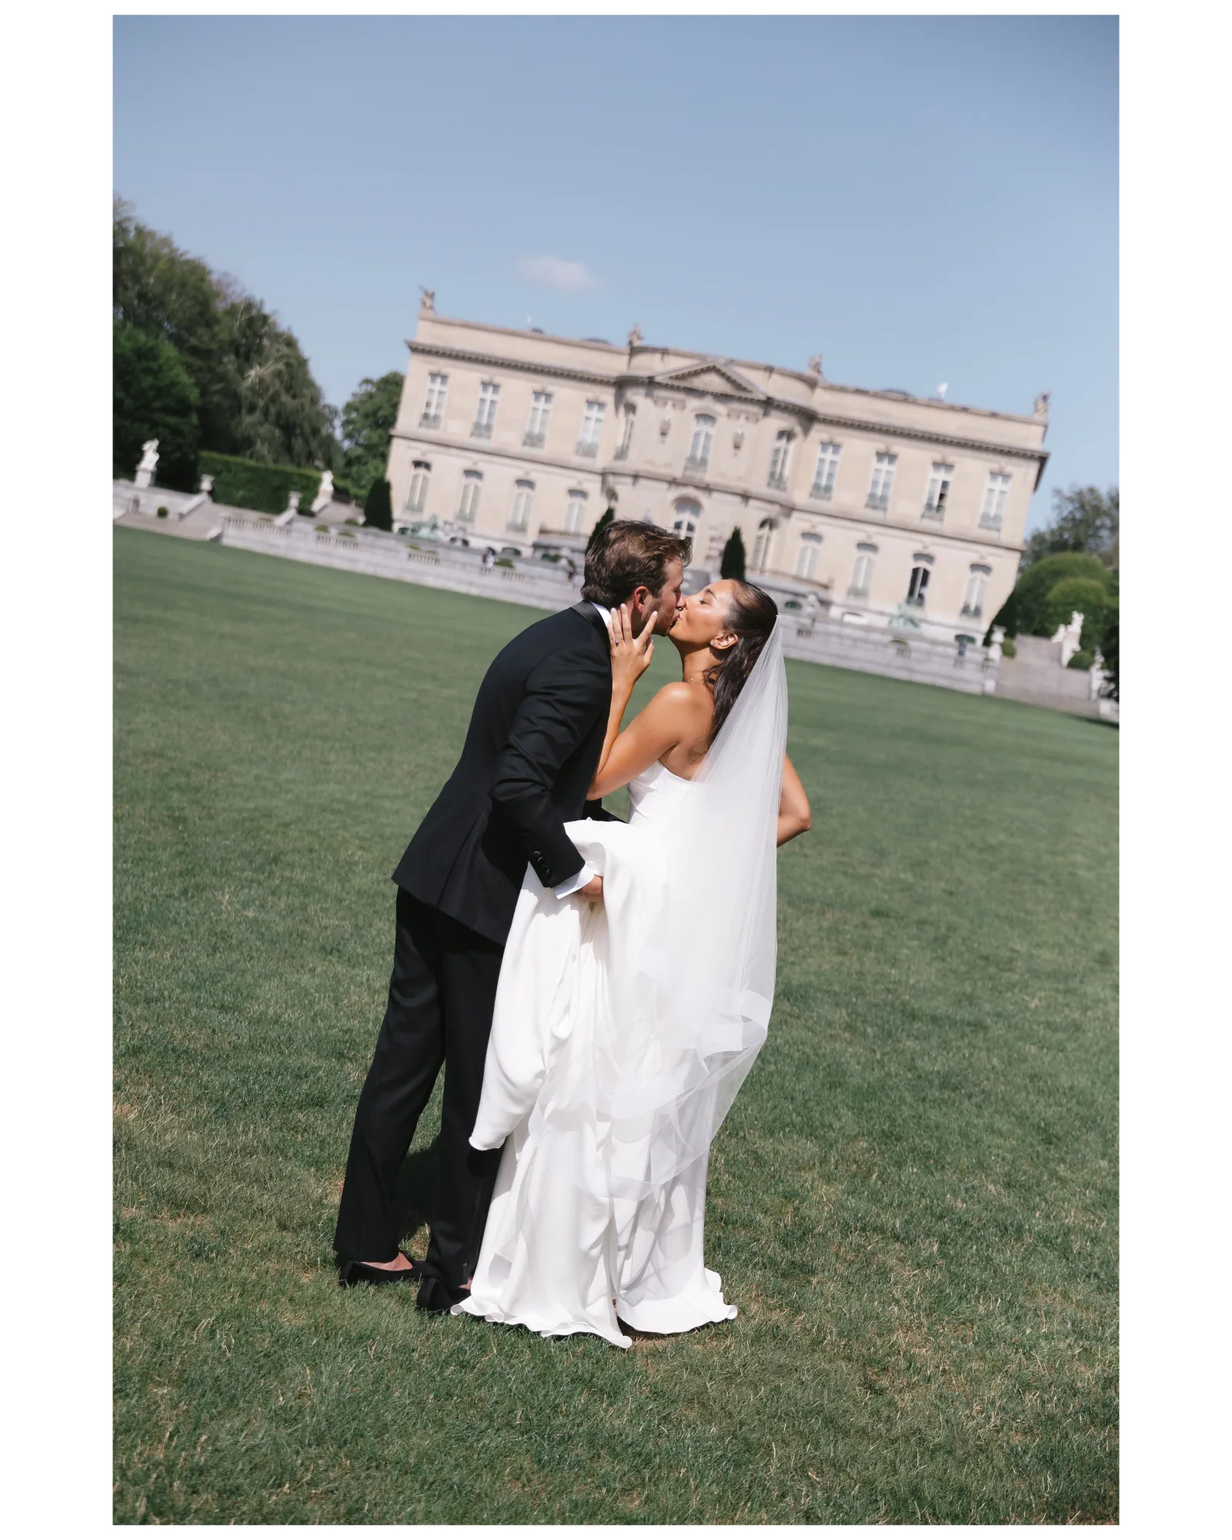
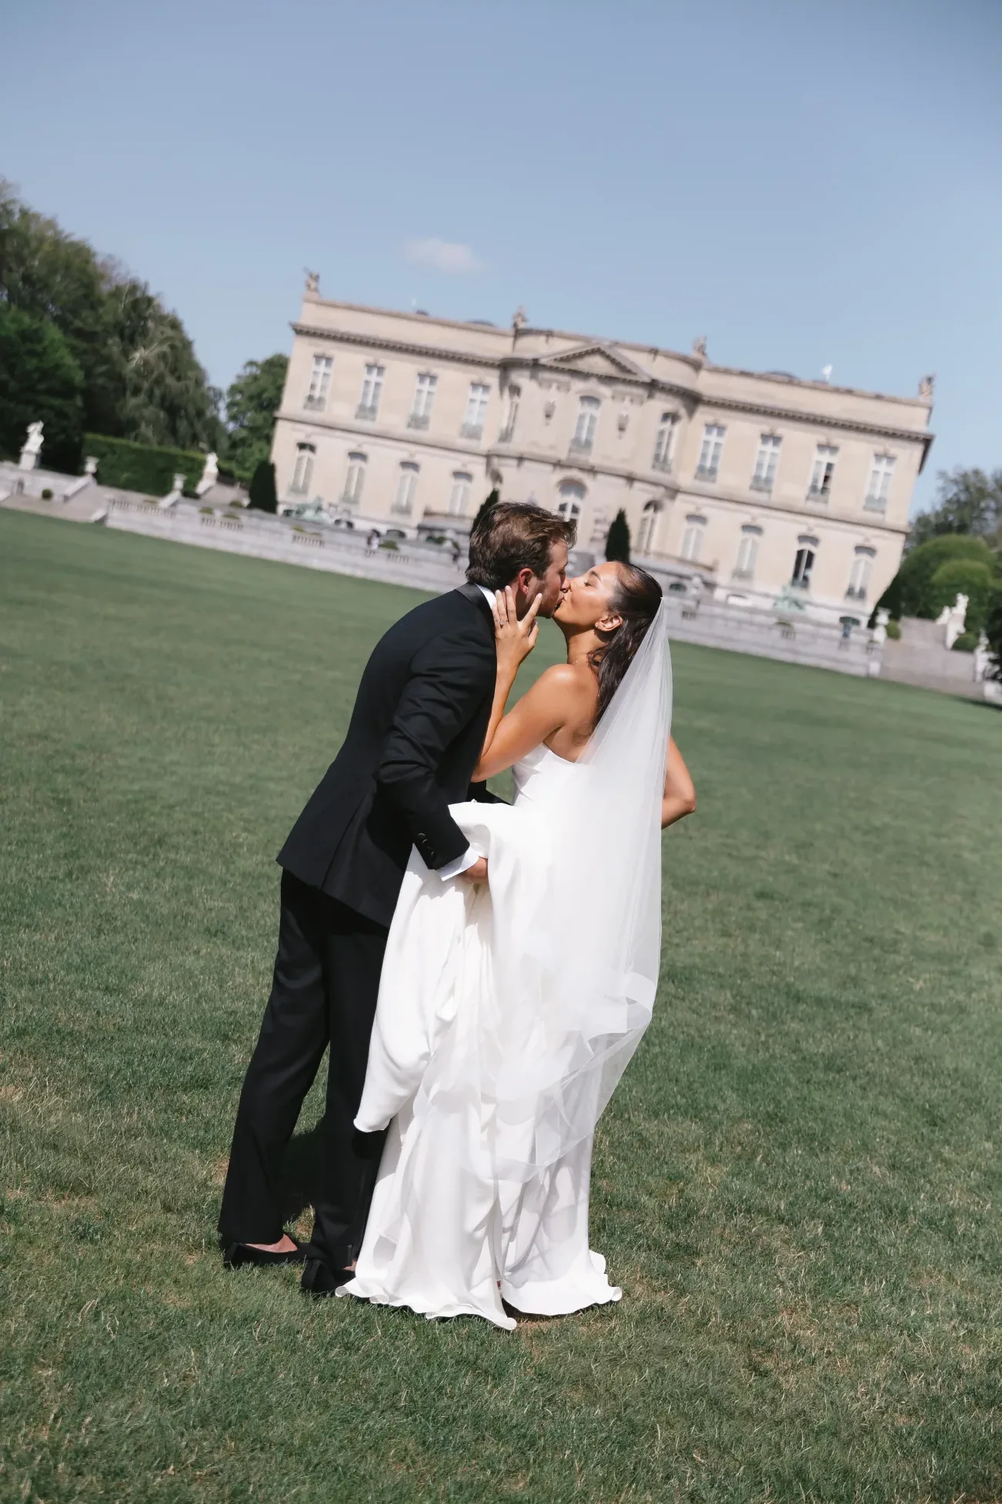
Link vendor credits to verified company sites; crop white mat off Halle & Zach hero
55 outbound links across all 8 wedding posts (companies only, URLs
verified live). Repoint OceanCliff JSON-LD off the parked
oceancliff.com domain. Crop baked-in white border from
halle-zach/main.webp (1601x2000 -> 1302x1954).

diff --git a/gallery-caite-sean.html b/gallery-caite-sean.html
@@ -58,7 +58,7 @@
       "location": {
         "@type": "Place",
         "name": "OceanCliff Hotel",
-        "url": "https://www.oceancliff.com",
+        "url": "https://www.newportexperience.com/venues/oceancliff/",
         "geo": {"@type": "GeoCoordinates", "latitude": 41.4628, "longitude": -71.3493},
         "address": {"@type": "PostalAddress", "streetAddress": "65 Ridge Road", "addressLocality": "Newport", "addressRegion": "RI", "postalCode": "02840", "addressCountry": "US"}
       }
@@ -154,6 +154,7 @@
     .vendors li { font-size: 0.78rem; color: var(--text); display: flex; justify-content: space-between; gap: 1rem; border-bottom: 1px dotted rgba(0,0,0,0.12); padding-bottom: 0.45rem; }
     .vendors li span { color: var(--peach); text-transform: uppercase; letter-spacing: 1.5px; font-size: 0.6rem; align-self: center; white-space: nowrap; }
     .vendors li b { font-weight: 400; color: var(--dark); text-align: right; }
+    .vendors li b a:hover { color: var(--peach); }
     @media (max-width: 640px) { .vendors ul { grid-template-columns: 1fr; } }
     .faq { max-width: 760px; margin: 0 auto; padding: 2.5rem 2rem 1rem; }
     .faq h2 { font-family: 'Playfair Display', serif; font-size: 1.4rem; font-style: italic; color: #1a1a1a; margin-bottom: 1.8rem; font-weight: 400; text-align: center; }
@@ -263,17 +264,17 @@
       <h3>The Wedding Team</h3>
       <ul>
         <li><span>Photography</span> <b>Michael Silvano</b></li>
-        <li><span>Ceremony</span> <b>Our Lady of Mercy Chapel, Salve Regina</b></li>
-        <li><span>Reception &amp; Catering</span> <b>OceanCliff, Newport</b></li>
-        <li><span>Getting Ready</span> <b>Newport Beach Hotel &amp; Suites</b></li>
+        <li><span>Ceremony</span> <b><a href="https://salve.edu/our-lady-mercy-chapel" target="_blank" rel="noopener">Our Lady of Mercy Chapel, Salve Regina</a></b></li>
+        <li><span>Reception &amp; Catering</span> <b><a href="https://www.newportexperience.com/venues/oceancliff/" target="_blank" rel="noopener">OceanCliff, Newport</a></b></li>
+        <li><span>Getting Ready</span> <b><a href="https://www.newportbeachhotelandsuites.com" target="_blank" rel="noopener">Newport Beach Hotel &amp; Suites</a></b></li>
         <li><span>Planning</span> <b>Tyler Zaloumis</b></li>
-        <li><span>Entertainment</span> <b>Elite Entertainment</b></li>
+        <li><span>Entertainment</span> <b><a href="https://www.eliteri.com" target="_blank" rel="noopener">Elite Entertainment</a></b></li>
         <li><span>Hair</span> <b>Kristen Dunne</b></li>
         <li><span>Make-up</span> <b>Sydney Tessaglia</b></li>
-        <li><span>Gown</span> <b>The White Dress</b></li>
-        <li><span>Suits</span> <b>The Black Tux</b></li>
-        <li><span>Content</span> <b>Move Mountains Co.</b></li>
-        <li><span>Sweets</span> <b>Cupcake Charlie's &amp; Ben &amp; Jerry's</b></li>
+        <li><span>Gown</span> <b><a href="https://www.thewhitedressbytheshore.com" target="_blank" rel="noopener">The White Dress</a></b></li>
+        <li><span>Suits</span> <b><a href="https://theblacktux.com" target="_blank" rel="noopener">The Black Tux</a></b></li>
+        <li><span>Content</span> <b><a href="https://www.movemountains.co" target="_blank" rel="noopener">Move Mountains Co.</a></b></li>
+        <li><span>Sweets</span> <b><a href="https://cupcakecharlies.com" target="_blank" rel="noopener">Cupcake Charlie's</a> &amp; <a href="https://www.benjerry.com" target="_blank" rel="noopener">Ben &amp; Jerry's</a></b></li>
       </ul>
     </div>
   </div>

diff --git a/gallery-jess-brett.html b/gallery-jess-brett.html
@@ -58,7 +58,7 @@
       "location": {
         "@type": "Place",
         "name": "OceanCliff Hotel",
-        "url": "https://www.oceancliff.com",
+        "url": "https://www.newportexperience.com/venues/oceancliff/",
         "geo": {"@type": "GeoCoordinates", "latitude": 41.4628, "longitude": -71.3493},
         "address": {"@type": "PostalAddress", "streetAddress": "65 Ridge Road", "addressLocality": "Newport", "addressRegion": "RI", "postalCode": "02840", "addressCountry": "US"}
       }
@@ -154,6 +154,7 @@
     .vendors li { font-size: 0.78rem; color: var(--text); display: flex; justify-content: space-between; gap: 1rem; border-bottom: 1px dotted rgba(0,0,0,0.12); padding-bottom: 0.45rem; }
     .vendors li span { color: var(--peach); text-transform: uppercase; letter-spacing: 1.5px; font-size: 0.6rem; align-self: center; white-space: nowrap; }
     .vendors li b { font-weight: 400; color: var(--dark); text-align: right; }
+    .vendors li b a:hover { color: var(--peach); }
     @media (max-width: 640px) { .vendors ul { grid-template-columns: 1fr; } }
     .faq { max-width: 760px; margin: 0 auto; padding: 2.5rem 2rem 1rem; }
     .faq h2 { font-family: 'Playfair Display', serif; font-size: 1.4rem; font-style: italic; color: #1a1a1a; margin-bottom: 1.8rem; font-weight: 400; text-align: center; }
@@ -243,16 +244,16 @@
       <h3>The Wedding Team</h3>
       <ul>
         <li><span>Photography</span> <b>Michael Silvano</b></li>
-        <li><span>Ceremony &amp; Reception</span> <b>OceanCliff, Newport</b></li>
-        <li><span>Planning</span> <b>Dana Marie Weddings &amp; Events</b></li>
-        <li><span>Florals</span> <b>The Secret Garden, Jamestown RI</b></li>
-        <li><span>Entertainment &amp; Music</span> <b>Outside the Box Productions</b></li>
+        <li><span>Ceremony &amp; Reception</span> <b><a href="https://www.newportexperience.com/venues/oceancliff/" target="_blank" rel="noopener">OceanCliff, Newport</a></b></li>
+        <li><span>Planning</span> <b><a href="https://www.danamarieweddings.com" target="_blank" rel="noopener">Dana Marie Weddings &amp; Events</a></b></li>
+        <li><span>Florals</span> <b><a href="https://www.thesecretgardenjamestown.com" target="_blank" rel="noopener">The Secret Garden, Jamestown RI</a></b></li>
+        <li><span>Entertainment &amp; Music</span> <b><a href="https://www.djcoreyeyoung.com" target="_blank" rel="noopener">Outside the Box Productions</a></b></li>
         <li><span>Cake &amp; Desserts</span> <b>Bella Confections</b></li>
-        <li><span>Rentals</span> <b>Peak Event Services</b></li>
-        <li><span>Hair</span> <b>BellaBeauty Bridal</b></li>
+        <li><span>Rentals</span> <b><a href="https://www.peakeventservices.com" target="_blank" rel="noopener">Peak Event Services</a></b></li>
+        <li><span>Hair</span> <b><a href="https://www.bellabeautybridal.com" target="_blank" rel="noopener">BellaBeauty Bridal</a></b></li>
         <li><span>Make-up</span> <b>DanaLeighGlam</b></li>
-        <li><span>Gown</span> <b>Alexandra's</b></li>
-        <li><span>Transportation</span> <b>Viking Tours Newport</b></li>
+        <li><span>Gown</span> <b><a href="https://alexandrasbridalboutique.com" target="_blank" rel="noopener">Alexandra's</a></b></li>
+        <li><span>Transportation</span> <b><a href="https://vikingtoursnewport.com" target="_blank" rel="noopener">Viking Tours Newport</a></b></li>
         <li><span>Officiant</span> <b>The groom's father</b></li>
       </ul>
     </div>

diff --git a/gallery-halle-zach.html b/gallery-halle-zach.html
@@ -58,7 +58,7 @@
       "location": {
         "@type": "Place",
         "name": "OceanCliff Hotel",
-        "url": "https://www.oceancliff.com",
+        "url": "https://www.newportexperience.com/venues/oceancliff/",
         "geo": {"@type": "GeoCoordinates", "latitude": 41.4628, "longitude": -71.3493},
         "address": {"@type": "PostalAddress", "streetAddress": "65 Ridge Road", "addressLocality": "Newport", "addressRegion": "RI", "postalCode": "02840", "addressCountry": "US"}
       }
@@ -157,6 +157,7 @@
     .vendors li { font-size: 0.78rem; color: var(--text); display: flex; justify-content: space-between; gap: 1rem; border-bottom: 1px dotted rgba(0,0,0,0.12); padding-bottom: 0.45rem; }
     .vendors li span { color: var(--peach); text-transform: uppercase; letter-spacing: 1.5px; font-size: 0.6rem; align-self: center; white-space: nowrap; }
     .vendors li b { font-weight: 400; color: var(--dark); text-align: right; }
+    .vendors li b a:hover { color: var(--peach); }
     @media (max-width: 640px) { .vendors ul { grid-template-columns: 1fr; } }
     .faq { max-width: 760px; margin: 0 auto; padding: 2.5rem 2rem 1rem; }
     .faq h2 { font-family: 'Playfair Display', serif; font-size: 1.4rem; font-style: italic; color: #1a1a1a; margin-bottom: 1.8rem; font-weight: 400; text-align: center; }
@@ -356,16 +357,16 @@
       <h3>The Wedding Team</h3>
       <ul>
         <li><span>Photography</span> <b>Michael Silvano</b></li>
-        <li><span>Ceremony &amp; Reception</span> <b>OceanCliff, Newport</b></li>
-        <li><span>Couple Portraits</span> <b>The Elms, Newport</b></li>
-        <li><span>Planning</span> <b>Dana Marie Weddings &amp; Events</b></li>
-        <li><span>Florals</span> <b>The Plant Girl</b></li>
+        <li><span>Ceremony &amp; Reception</span> <b><a href="https://www.newportexperience.com/venues/oceancliff/" target="_blank" rel="noopener">OceanCliff, Newport</a></b></li>
+        <li><span>Couple Portraits</span> <b><a href="https://www.newportmansions.org/mansions-and-gardens/the-elms/" target="_blank" rel="noopener">The Elms, Newport</a></b></li>
+        <li><span>Planning</span> <b><a href="https://www.danamarieweddings.com" target="_blank" rel="noopener">Dana Marie Weddings &amp; Events</a></b></li>
+        <li><span>Florals</span> <b><a href="https://plantgirlfloral.com" target="_blank" rel="noopener">The Plant Girl</a></b></li>
         <li><span>Cake &amp; Desserts</span> <b>Bella Confections</b></li>
         <li><span>DJ &amp; Entertainment</span> <b>Corey Young</b></li>
         <li><span>Ceremony Music</span> <b>Gus Culpo</b></li>
-        <li><span>Stationery &amp; Signage</span> <b>Cove Design Co.</b></li>
-        <li><span>Hair &amp; Make-up</span> <b>Ali Lomazzo Beauty</b></li>
-        <li><span>Transportation</span> <b>Rockstar Limo · Limos of Newport</b></li>
+        <li><span>Stationery &amp; Signage</span> <b><a href="https://www.covedesignco.com" target="_blank" rel="noopener">Cove Design Co.</a></b></li>
+        <li><span>Hair &amp; Make-up</span> <b><a href="https://www.alilomazzobeauty.com" target="_blank" rel="noopener">Ali Lomazzo Beauty</a></b></li>
+        <li><span>Transportation</span> <b><a href="https://www.rockstarlimo.net" target="_blank" rel="noopener">Rockstar Limo</a> · <a href="https://www.limousinesofnewportandprovidence.com" target="_blank" rel="noopener">Limos of Newport</a></b></li>
         <li><span>Officiant</span> <b>The bride's brother</b></li>
       </ul>
     </div>

diff --git a/gallery-gabi-ike.html b/gallery-gabi-ike.html
@@ -152,6 +152,7 @@
     .vendors li { font-size: 0.78rem; color: var(--text); display: flex; justify-content: space-between; gap: 1rem; border-bottom: 1px dotted rgba(0,0,0,0.12); padding-bottom: 0.45rem; }
     .vendors li span { color: var(--peach); text-transform: uppercase; letter-spacing: 1.5px; font-size: 0.6rem; align-self: center; white-space: nowrap; }
     .vendors li b { font-weight: 400; color: var(--dark); text-align: right; }
+    .vendors li b a:hover { color: var(--peach); }
     @media (max-width: 640px) { .vendors ul { grid-template-columns: 1fr; } }
     .faq { max-width: 760px; margin: 0 auto; padding: 2.5rem 2rem 1rem; }
     .faq h2 { font-family: 'Playfair Display', serif; font-size: 1.4rem; font-style: italic; color: #1a1a1a; margin-bottom: 1.8rem; font-weight: 400; text-align: center; }
@@ -243,17 +244,17 @@
       <h3>The Wedding Team</h3>
       <ul>
         <li><span>Photography</span> <b>Michael Silvano</b></li>
-        <li><span>Venue</span> <b>Roger Williams Park Botanical Center</b></li>
-        <li><span>Planning</span> <b>Courtney Rezendes · Una Weddings</b></li>
+        <li><span>Venue</span> <b><a href="https://www.providenceri.gov/botanical-center/" target="_blank" rel="noopener">Roger Williams Park Botanical Center</a></b></li>
+        <li><span>Planning</span> <b>Courtney Rezendes · <a href="https://www.unaweddings.com" target="_blank" rel="noopener">Una Weddings</a></b></li>
         <li><span>Officiant</span> <b>Jeff Church Jr.</b></li>
         <li><span>Hair</span> <b>Ashley Silvano</b></li>
-        <li><span>Make-up</span> <b>Ali Lomazzo Beauty</b></li>
-        <li><span>Gown</span> <b>Rue de Seine · Ceremony, Boston</b></li>
-        <li><span>Suits</span> <b>Brooks Brothers</b></li>
-        <li><span>Florals</span> <b>Petal &amp; Wren</b></li>
-        <li><span>Catering</span> <b>Easy Entertaining</b></li>
-        <li><span>Sweets</span> <b>Wooden Pin Baking Co.</b></li>
-        <li><span>Entertainment</span> <b>Meritage Entertainment</b></li>
+        <li><span>Make-up</span> <b><a href="https://www.alilomazzobeauty.com" target="_blank" rel="noopener">Ali Lomazzo Beauty</a></b></li>
+        <li><span>Gown</span> <b><a href="https://ruedeseine.com" target="_blank" rel="noopener">Rue de Seine</a> · <a href="https://www.ceremony-boston.com" target="_blank" rel="noopener">Ceremony, Boston</a></b></li>
+        <li><span>Suits</span> <b><a href="https://www.brooksbrothers.com" target="_blank" rel="noopener">Brooks Brothers</a></b></li>
+        <li><span>Florals</span> <b><a href="https://www.petalandwren.com" target="_blank" rel="noopener">Petal &amp; Wren</a></b></li>
+        <li><span>Catering</span> <b><a href="https://www.easyentertainingri.com" target="_blank" rel="noopener">Easy Entertaining</a></b></li>
+        <li><span>Sweets</span> <b><a href="https://www.woodenpin.com" target="_blank" rel="noopener">Wooden Pin Baking Co.</a></b></li>
+        <li><span>Entertainment</span> <b><a href="https://www.meritagedj.com" target="_blank" rel="noopener">Meritage Entertainment</a></b></li>
       </ul>
     </div>
   </div>

diff --git a/gallery-ashley-john.html b/gallery-ashley-john.html
@@ -153,6 +153,7 @@
     .vendors li { font-size: 0.78rem; color: var(--text); display: flex; justify-content: space-between; gap: 1rem; border-bottom: 1px dotted rgba(0,0,0,0.12); padding-bottom: 0.45rem; }
     .vendors li span { color: var(--peach); text-transform: uppercase; letter-spacing: 1.5px; font-size: 0.6rem; align-self: center; white-space: nowrap; }
     .vendors li b { font-weight: 400; color: var(--dark); text-align: right; }
+    .vendors li b a:hover { color: var(--peach); }
     @media (max-width: 640px) { .vendors ul { grid-template-columns: 1fr; } }
     .faq { max-width: 760px; margin: 0 auto; padding: 2.5rem 2rem 1rem; }
     .faq h2 { font-family: 'Playfair Display', serif; font-size: 1.4rem; font-style: italic; color: #1a1a1a; margin-bottom: 1.8rem; font-weight: 400; text-align: center; }
@@ -264,15 +265,15 @@
       <h3>The Wedding Team</h3>
       <ul>
         <li><span>Photography</span> <b>Michael Silvano</b></li>
-        <li><span>Venue &amp; Catering</span> <b>The Chanler at Cliff Walk</b></li>
+        <li><span>Venue &amp; Catering</span> <b><a href="https://www.thechanler.com" target="_blank" rel="noopener">The Chanler at Cliff Walk</a></b></li>
         <li><span>Officiant</span> <b>Brian Ledwith</b></li>
         <li><span>Hair</span> <b>Marci McCarty</b></li>
-        <li><span>Gown</span> <b>Madysen Blayke · Alexandra's Boutique</b></li>
-        <li><span>Suits</span> <b>State &amp; Liberty</b></li>
-        <li><span>Florals</span> <b>Fleur Soiree</b></li>
-        <li><span>Film &amp; Video</span> <b>Shutter &amp; Sound</b></li>
-        <li><span>Transportation</span> <b>Viking Trolley</b></li>
-        <li><span>Entertainment</span> <b>Golden Estate Entertainment</b></li>
+        <li><span>Gown</span> <b>Madysen Blayke · <a href="https://alexandrasbridalboutique.com" target="_blank" rel="noopener">Alexandra's Boutique</a></b></li>
+        <li><span>Suits</span> <b><a href="https://stateandliberty.com" target="_blank" rel="noopener">State &amp; Liberty</a></b></li>
+        <li><span>Florals</span> <b><a href="https://www.fleursoiree.com" target="_blank" rel="noopener">Fleur Soiree</a></b></li>
+        <li><span>Film &amp; Video</span> <b><a href="https://shutterandsound.com" target="_blank" rel="noopener">Shutter &amp; Sound</a></b></li>
+        <li><span>Transportation</span> <b><a href="https://vikingtoursnewport.com" target="_blank" rel="noopener">Viking Trolley</a></b></li>
+        <li><span>Entertainment</span> <b><a href="https://www.goldenestatebands.com" target="_blank" rel="noopener">Golden Estate Entertainment</a></b></li>
       </ul>
     </div>
   </div>

diff --git a/gallery-colleen-max.html b/gallery-colleen-max.html
@@ -157,6 +157,7 @@
     .vendors li { font-size: 0.78rem; color: var(--text); display: flex; justify-content: space-between; gap: 1rem; border-bottom: 1px dotted rgba(0,0,0,0.12); padding-bottom: 0.45rem; }
     .vendors li span { color: var(--peach); text-transform: uppercase; letter-spacing: 1.5px; font-size: 0.6rem; align-self: center; white-space: nowrap; }
     .vendors li b { font-weight: 400; color: var(--dark); text-align: right; }
+    .vendors li b a:hover { color: var(--peach); }
     @media (max-width: 640px) { .vendors ul { grid-template-columns: 1fr; } }
     .faq { max-width: 760px; margin: 0 auto; padding: 2.5rem 2rem 1rem; }
     .faq h2 { font-family: 'Playfair Display', serif; font-size: 1.4rem; font-style: italic; color: #1a1a1a; margin-bottom: 1.8rem; font-weight: 400; text-align: center; }
@@ -359,17 +360,17 @@
       <h3>The Wedding Team</h3>
       <ul>
         <li><span>Photography</span> <b>Michael Silvano</b></li>
-        <li><span>Venue &amp; Catering</span> <b>Aldrich Mansion, Warwick</b></li>
+        <li><span>Venue &amp; Catering</span> <b><a href="https://www.aldrichmansion.com" target="_blank" rel="noopener">Aldrich Mansion, Warwick</a></b></li>
         <li><span>Officiant</span> <b>Father Bernard</b></li>
         <li><span>DJ</span> <b>Mark McGillicudy</b></li>
         <li><span>Videography</span> <b>Mike Osowski</b></li>
         <li><span>Hair</span> <b>Maricruz Polito</b></li>
         <li><span>Make-up</span> <b>Lauren Branch</b></li>
         <li><span>Florals</span> <b>Pam Campo</b></li>
-        <li><span>Gown</span> <b>Paloma Blanca</b></li>
-        <li><span>Tuxedos</span> <b>Generation Tux</b></li>
-        <li><span>Cake</span> <b>Wright's Farm Bakery</b></li>
-        <li><span>Transportation</span> <b>Rock Star Limo</b></li>
+        <li><span>Gown</span> <b><a href="https://palomablanca.com" target="_blank" rel="noopener">Paloma Blanca</a></b></li>
+        <li><span>Tuxedos</span> <b><a href="https://generationtux.com" target="_blank" rel="noopener">Generation Tux</a></b></li>
+        <li><span>Cake</span> <b><a href="https://www.wrightsri.com" target="_blank" rel="noopener">Wright's Farm Bakery</a></b></li>
+        <li><span>Transportation</span> <b><a href="https://www.rockstarlimo.net" target="_blank" rel="noopener">Rock Star Limo</a></b></li>
       </ul>
     </div>
   </div>

diff --git a/gallery-meghan-pat.html b/gallery-meghan-pat.html
@@ -152,6 +152,7 @@
     .vendors li { font-size: 0.78rem; color: var(--text); display: flex; justify-content: space-between; gap: 1rem; border-bottom: 1px dotted rgba(0,0,0,0.12); padding-bottom: 0.45rem; }
     .vendors li span { color: var(--peach); text-transform: uppercase; letter-spacing: 1.5px; font-size: 0.6rem; align-self: center; white-space: nowrap; }
     .vendors li b { font-weight: 400; color: var(--dark); text-align: right; }
+    .vendors li b a:hover { color: var(--peach); }
     @media (max-width: 640px) { .vendors ul { grid-template-columns: 1fr; } }
     .faq { max-width: 760px; margin: 0 auto; padding: 2.5rem 2rem 1rem; }
     .faq h2 { font-family: 'Playfair Display', serif; font-size: 1.4rem; font-style: italic; color: #1a1a1a; margin-bottom: 1.8rem; font-weight: 400; text-align: center; }
@@ -242,15 +243,15 @@
       <h3>The Wedding Team</h3>
       <ul>
         <li><span>Photography</span> <b>Michael Silvano</b></li>
-        <li><span>Venue</span> <b>Floriana, Ipswich</b></li>
-        <li><span>Getting Ready</span> <b>Essex Street Inn, Newburyport</b></li>
+        <li><span>Venue</span> <b><a href="https://www.florianaipswich.com" target="_blank" rel="noopener">Floriana, Ipswich</a></b></li>
+        <li><span>Getting Ready</span> <b><a href="https://www.essexstreetinn.com" target="_blank" rel="noopener">Essex Street Inn, Newburyport</a></b></li>
         <li><span>Officiant</span> <b>Kayla Keenan</b></li>
         <li><span>Hair</span> <b>Jess Zimbone</b></li>
         <li><span>Make-up</span> <b>Dana Compopiano</b></li>
-        <li><span>Gown</span> <b>New York Lace</b></li>
+        <li><span>Gown</span> <b><a href="https://www.newyorklacecouture.com" target="_blank" rel="noopener">New York Lace</a></b></li>
         <li><span>Florals</span> <b>Michelle Carlos</b></li>
         <li><span>Film &amp; Video</span> <b>Paul Tavares</b></li>
-        <li><span>Sweets</span> <b>Whites Bakery</b></li>
+        <li><span>Sweets</span> <b><a href="https://www.whitesbakeryandcafe.com" target="_blank" rel="noopener">Whites Bakery</a></b></li>
         <li><span>Entertainment</span> <b>Platinum DJ's</b></li>
       </ul>
     </div>

diff --git a/gallery-chris-abby.html b/gallery-chris-abby.html
@@ -157,6 +157,7 @@
     .vendors li { font-size: 0.78rem; color: var(--text); display: flex; justify-content: space-between; gap: 1rem; border-bottom: 1px dotted rgba(0,0,0,0.12); padding-bottom: 0.45rem; }
     .vendors li span { color: var(--peach); text-transform: uppercase; letter-spacing: 1.5px; font-size: 0.6rem; align-self: center; white-space: nowrap; }
     .vendors li b { font-weight: 400; color: var(--dark); text-align: right; }
+    .vendors li b a:hover { color: var(--peach); }
     @media (max-width: 640px) { .vendors ul { grid-template-columns: 1fr; } }
     .faq { max-width: 760px; margin: 0 auto; padding: 2.5rem 2rem 1rem; }
     .faq h2 { font-family: 'Playfair Display', serif; font-size: 1.4rem; font-style: italic; color: #1a1a1a; margin-bottom: 1.8rem; font-weight: 400; text-align: center; }
@@ -311,11 +312,11 @@
       <h3>The Wedding Team</h3>
       <ul>
         <li><span>Photography</span> <b>Michael Silvano</b></li>
-        <li><span>Ceremony</span> <b>Our Lady of Good Voyage, Gloucester</b></li>
-        <li><span>Reception</span> <b>Cruiseport Gloucester</b></li>
+        <li><span>Ceremony</span> <b><a href="https://ccgronline.com" target="_blank" rel="noopener">Our Lady of Good Voyage, Gloucester</a></b></li>
+        <li><span>Reception</span> <b><a href="https://www.cruiseportgloucester.com" target="_blank" rel="noopener">Cruiseport Gloucester</a></b></li>
         <li><span>Cocktail Hour</span> <b>Harbor cruise, Gloucester Harbor</b></li>
-        <li><span>Getting Ready</span> <b>Beauport Hotel, Gloucester</b></li>
-        <li><span>Entertainment &amp; Music</span> <b>Meritage Entertainment</b></li>
+        <li><span>Getting Ready</span> <b><a href="https://www.beauporthotel.com" target="_blank" rel="noopener">Beauport Hotel, Gloucester</a></b></li>
+        <li><span>Entertainment &amp; Music</span> <b><a href="https://www.meritagedj.com" target="_blank" rel="noopener">Meritage Entertainment</a></b></li>
         <li><span>Hair &amp; Make-up</span> <b>The Bridal Suite</b></li>
       </ul>
     </div>
